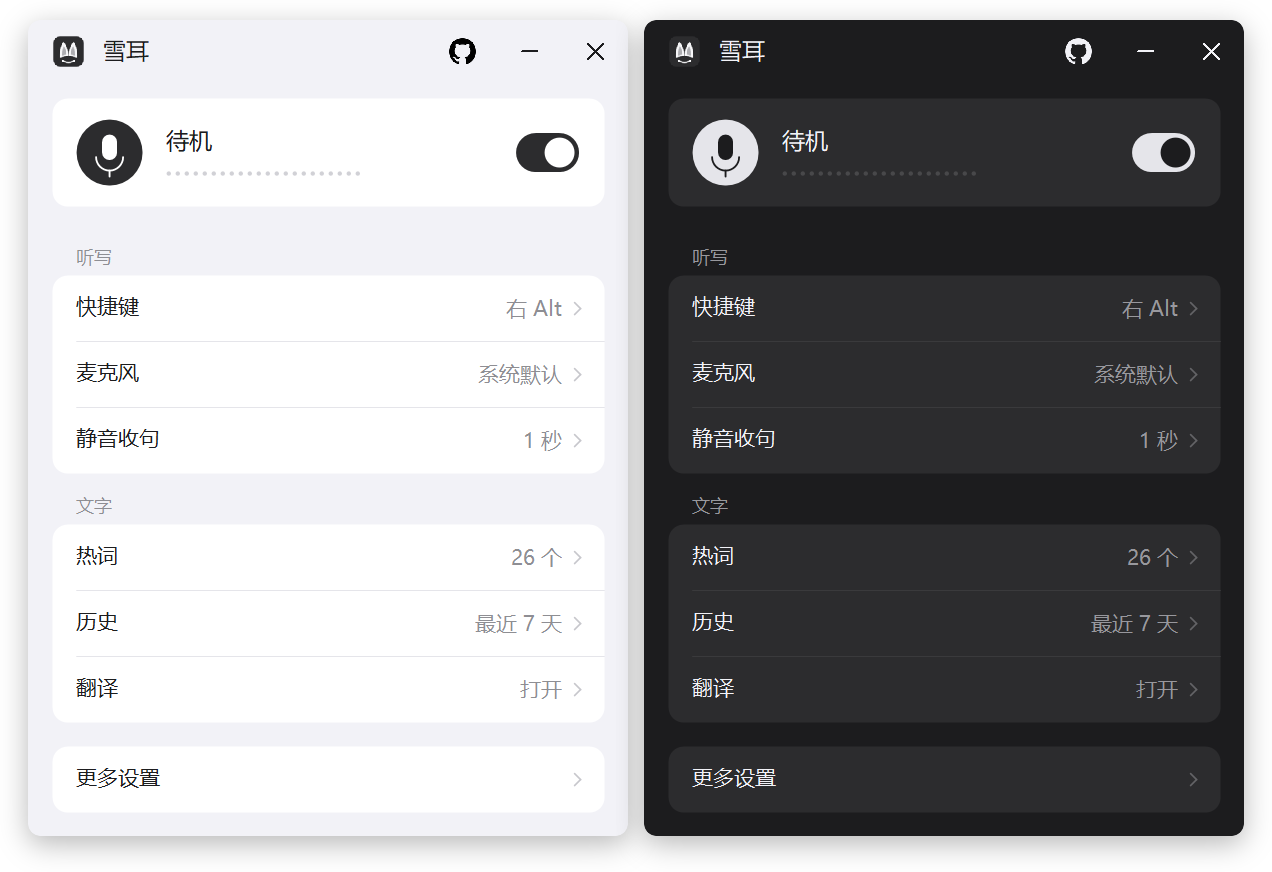
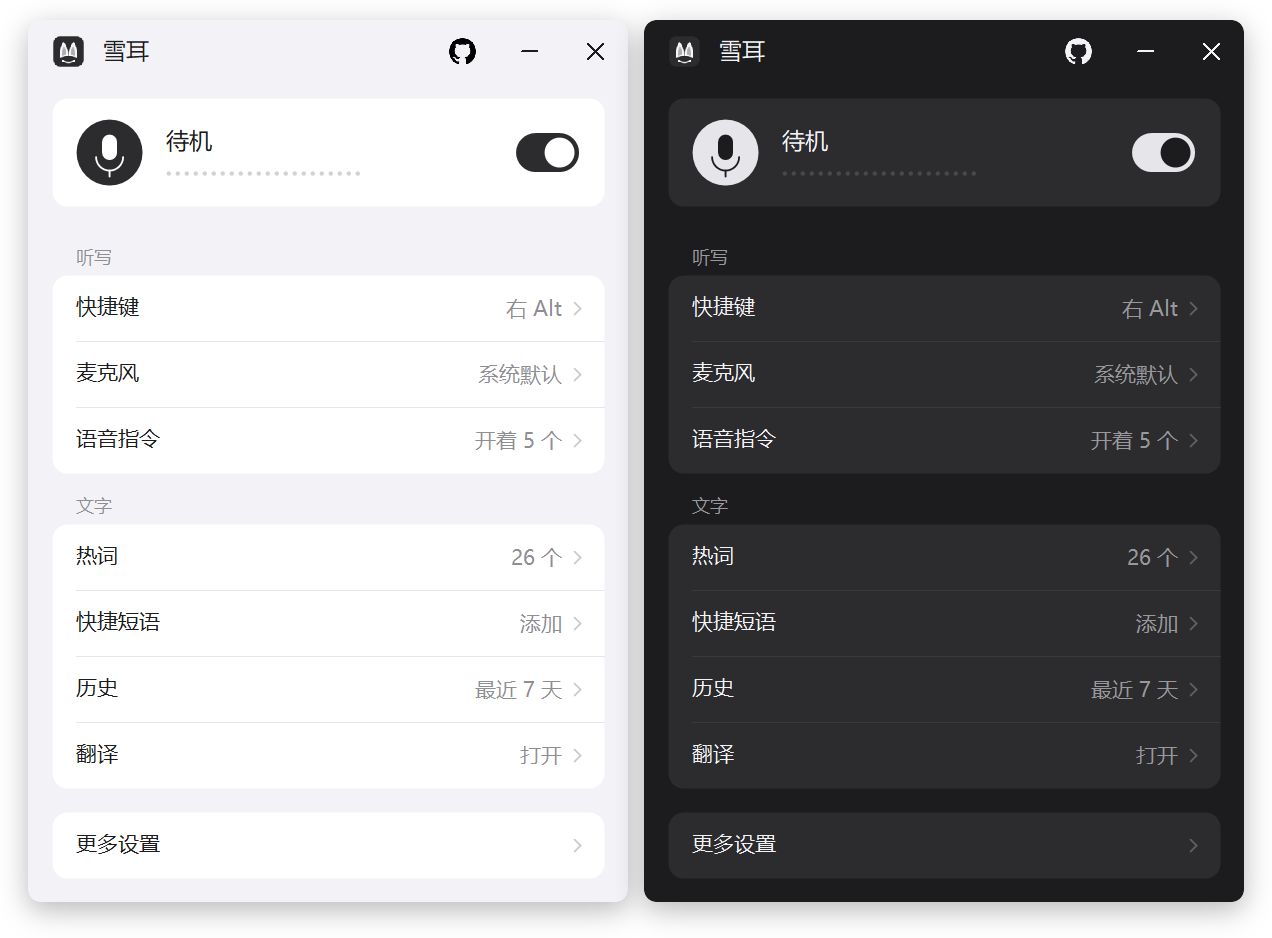
翻译菜单去掉过时的「读不到输入框（终端）就翻雪耳打的字」，改成「终端里只认 Claude Code、Codex 的输入框」

diff --git a/crates/gui/src/prefs.rs b/crates/gui/src/prefs.rs
@@ -431,7 +431,7 @@ pub fn translate_choices(
         ),
         (
             NOTHING,
-            "读不到输入框（终端）就翻雪耳打的字".to_owned(),
+            "终端里只认 Claude Code、Codex 的输入框".to_owned(),
             false,
         ),
         separator(),
@@ -692,6 +692,8 @@ mod translate_menu_tests {
         assert_eq!(translate_summary(&configured), "打开");
         let menu = translate_choices(&configured);
         assert_eq!(menu[0].0, OPEN_TRANSLATOR);
+        // 1.3 第三轮起终端也读整个输入框，不再「读不到就翻雪耳打的字」
+        assert!(!menu.iter().any(|(_, t, _)| t.contains("雪耳打的字")));
         assert!(
             menu.iter()
                 .any(|(_, t, _)| t == "服务：火山、微软、B站、微信、谷歌、智谱，谁快先用谁"),
